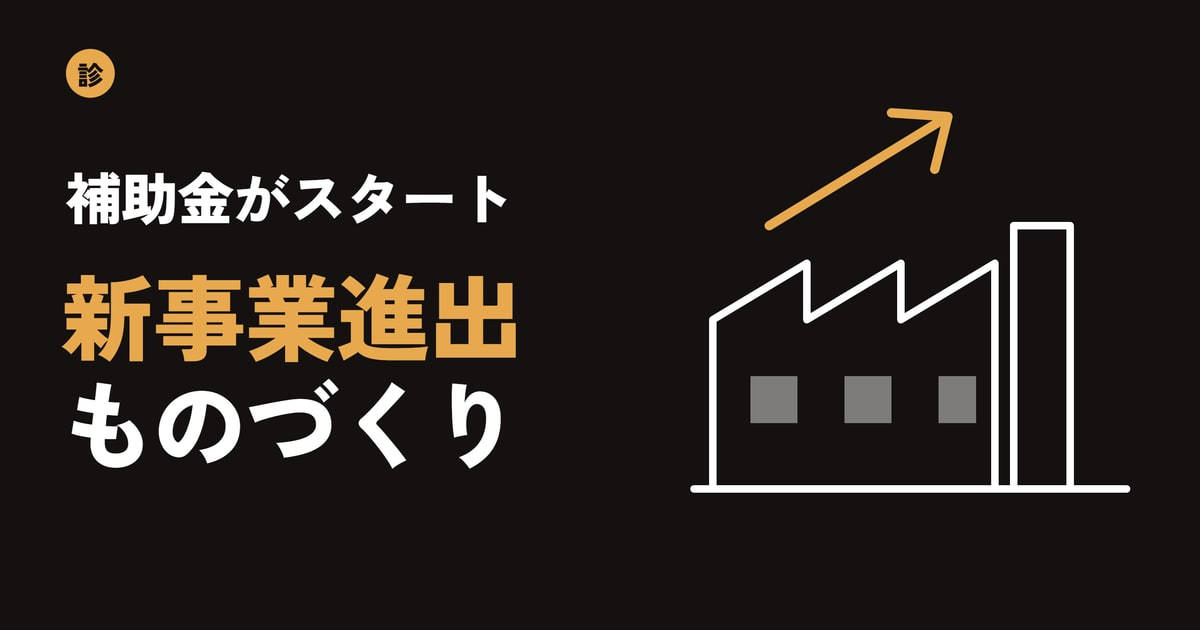
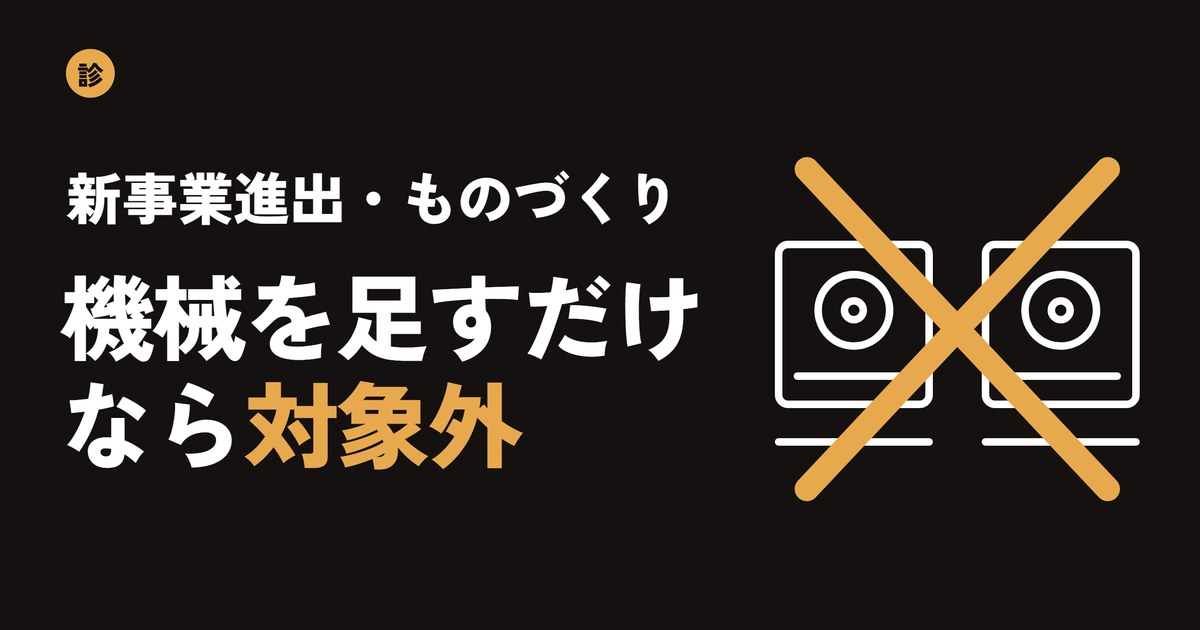
新事業進出・ものづくり補助金の記事を「製造業で対象になる計画、ならない計画」に書き直す
公募開始時の告知のまま（タイトル「がスタート」）で、仕事に直結する検索で171回表示されながら14位・0クリックだった。制度の全体像と山口県の賃金要件は monodukuri-hojokin-yamaguchi にあるので重ねず、業種名を足した検索に答える切り口にした。

- 公募要領1.3版の「新事業進出枠に該当しない例」7つを製造業の場面に置き換えた表
- 機械の導入だけでは対象外、ただし機械装置費か建物費は必須という両面
- 工程改善なら省力化投資補助金、第2回を待つなら事業を先に始めない、過去3年2回以上は対象外
- 第1回の締切と採択発表予定を時点つきで記載。URLは変えない
- アイキャッチを作り直し（JPEG 1200×630 と一覧用 WebP）

diff --git a/mt-shindan-site/src/content/blog/post-476.md b/mt-shindan-site/src/content/blog/post-476.md
@@ -1,96 +1,93 @@
 ---
-title: "新事業進出・ものづくり商業サービス補助金がスタート"
+title: "新事業進出・ものづくり補助金｜製造業で対象になる計画、ならない計画"
 slug: "shinjigyou-shinshutsu-monodukuri-subsidy"
 image: "/images/og/shinjigyou-shinshutsu-monodukuri-subsidy.jpg"
 date: "2026-06-30 12:00:00"
-updated: "2026-09-17"
+updated: "2026-10-28"
 categories: ["補助金"]
-description: "これまで多くの事業者様からご相談をいただいていた「新事業進出補助金」と「ものづくり補助金」。この２つが統合され、新たに「新事業進出・ものづくり商業サービス補助金」として第１回の公募が始まりました。"
-ctaLead: "第1回の締切は10月30日18時です。公募開始時の9月30日から変わっています。自社がどの枠で申請できるのか、その判断だけでもご相談ください。"
+description: "新事業進出・ものづくり商業サービス補助金は、機械を増やして生産量を上げるだけの計画は対象外です。公募要領が挙げる「該当しない例」7つを製造業の場面に置き換え、3つの枠の分かれ方、工程改善なら別の補助金、第2回を待つときの注意点まで整理します。"
+ctaLead: "その計画がどの枠に当たるのか、それとも別の補助金のほうが合うのか。公募要領と照らし合わせるところから一緒に確認できます。"
+related: ["monodukuri-hojokin-yamaguchi", "monodukuri-hojokin-consultant-fee", "digital-ai-hojokin-2026"]
 ---
 
-こんにちは、中小企業診断士の前です。
+新しい機械を入れて、生産を増やしたい。ものづくり補助金と聞いて多くの方が思い浮かべるのは、こういう使い方だと思います。
 
+ところが、後継の「新事業進出・ものづくり商業サービス補助金」では、この計画はどの枠にも当てはまりません。この補助金で問われるのは、何を買うかではなく、<strong>何を作って、誰に売るか</strong>です。
 
+第1回の応募は2026年10月30日（金）18時が締切で、採択発表は2027年1月頃の予定です。第2回の日程は、2026年10月28日時点で発表されていません。
 
-これまで多くの事業者様からご相談をいただいていた「新事業進出補助金」と「ものづくり補助金」。この２つが統合され、新たに「新事業進出・ものづくり商業サービス補助金」として第１回の公募が始まりました。
+公式サイト：[新事業進出・ものづくり商業サービス補助金](https://shinjigyou-monodukuri.smrj.go.jp/)
 
+## 3つの枠は「何を作って、誰に売るか」で分かれる
 
+| 枠 | 作るもの | 売る相手 | 補助上限 | 補助率 |
+| --- | --- | --- | --- | --- |
+| 革新的新製品・サービス枠 | 自社の技術を使った新製品・新サービス | 問わない | 750万〜2,500万円 | 1/2（小規模事業者は2/3） |
+| 新事業進出枠 | 自社にとって新しい製品・サービス | 自社にとって新しい顧客層 | 2,500万〜7,000万円 | 1/2 |
+| グローバル枠 | 自社の製品・サービス | 自社にとって新しい国・地域 | 2,500万〜7,000万円 | 2/3 |
 
-公式サイト：https://shinjigyou-monodukuri.smrj.go.jp/
+補助上限は従業員数で変わり、賃上げ特例を使うと上乗せがあります。下限は革新的新製品・サービス枠が100万円、ほかの2つは750万円です。小規模な事業者にとって下限がどう効いてくるかは、[ものづくり補助金 山口｜名称が変わり、締切は10月30日](/blog/monodukuri-hojokin-yamaguchi/)で詳しく書きました。
 
+グローバル枠は、自社が自分から海外の販路を開く場合に限られます。取引先に頼まれて輸出する、という形は対象外です。
 
+## 機械を入れるだけでは、どの枠にも当たらない
 
-公募要領を一通り読み込みましたので、今日は「結局どんな補助金なの？」「自分の会社は使えるの？」というところを、できるだけかみ砕いてご紹介します。
+革新的新製品・サービス枠について、公募要領ははっきり書いています。既存の製品・サービスの生産プロセスを改善する事業は対象外。機械装置やシステムを導入するだけで、新製品・新サービスの開発を伴わないものも該当しない。
 
+さらに、同業の中小企業ですでに相当程度普及している製品の開発も該当しません。地域性の高いものは、同じ地域の同業他社が基準になります。県内の同業者がもう作っているものを自社でも作る、という計画は、この枠では通りにくいということです。
 
+新事業進出枠でも、「該当しない例」の最初に挙がっているのが、既存の製品の製造量を増やす場合です。
 
-### どんな補助金なの？
+ただし、機械が要らないわけではありません。むしろ逆で、革新的新製品・サービス枠では機械装置・システム構築費を、新事業進出枠とグローバル枠では機械装置・システム構築費か建物費のどちらかを、必ず経費に含める決まりです。一過性の支出が経費の大半を占める計画も対象になりません。
 
+機械は買っていい。ただし、新しい製品を作るための手段として位置づける必要があります。
 
+## 「該当しない例」を製造業に当てはめると
 
-ひとことで言うと、新しい製品・サービスの開発や、これまでとは違う市場への進出、海外への販路拡大を後押ししてくれる補助金です。
+公募要領は、新事業進出枠に該当しない例を7つ挙げています。製造業の場面に置き換えると、次のようになります。右の列は要領の文言をもとに当事務所が置き換えた例で、実際の判断は計画全体を見て審査されます。
 
+| 公募要領の「該当しない例」 | 製造業に置き換えた例 |
+| --- | --- |
+| 既存の製品の製造量を増やす | 受注が増えた部品を作るため、同じ加工機を増設する |
+| 過去に作っていた製品を、また作る | 以前にやめた鋳物製品の製造を再開する |
+| 製造方法を変えるだけ | 同じチラシを、オフセット印刷からデジタル印刷に切り替えて刷る |
+| 性能を数値で測れるのに、有意な差がない | 樹脂部品の強度をわずかに上げただけの改良品 |
+| 既存製品と市場が同じ（置き換わる・メニューを足すだけ） | いまの取引先に、材質を変えた後継の部品を納める |
+| 既存の市場の一部だけを狙う | いまの客層のうち、小ロットで買う顧客だけに向けて仕様を変える |
+| 製品は同じで、商圏が違うだけ | 山口県内で売ってきた製品を、広島や福岡の同業の取引先に売り込む |
 
+最後の行は、県外に販路を広げたい事業者ほど気をつけたいところです。売る場所が変わっても、製品と顧客の種類が同じなら、新しい市場とは扱われません。
 
-枠は３つに分かれています。
+## 対象に近づくのは、顧客の種類が変わるとき
 
+では、何が「新しい市場」なのか。公募要領の定義は、既存事業では対象にしていなかったニーズや属性を持つ顧客層です。属性の例として、法人か個人か、業種、行動特性が挙げられています。
 
+新しさは自社にとってのもので構いません。日本初や世界初である必要はない、と要領にも書かれています。
 
-革新的新製品・サービス枠は、自社の技術を活かした新しい製品・サービスの開発が対象です。既存の製品をちょっと改良するだけ、という内容では対象になりません。
+例えば、自動車部品向けに金属を削ってきた会社が、その加工技術でキャンプ用品を作り、個人のお客様に直接売る。製品も、売る相手（法人から個人へ）も、その会社にとって新しいものです。考え方としては新事業進出枠に沿っています。
 
+ただ、枠の考え方に沿っていることと、採択されることは別です。その市場がどのくらいの大きさで、どの経路で売り、いつ利益が出るのか。そこまで計画で示せるかどうかが審査で問われます。
 
+## 工程の改善が目的なら、別の補助金が合う
 
-新事業進出枠は、これまでの事業とは違う市場やお客様層に進出する取り組みが対象です。ここがよく誤解されるポイントなのですが、<strong>「世の中で初めて」という新しさは求められていません。自社にとって新しい取り組みであればOKです</strong>。
+いまの製品を速く、少ない人手で作るための設備なら、中小企業省力化投資補助金のほうが目的に合います。人手不足の解消を目的にした設備投資を支える制度で、カタログから設備を選ぶ「カタログ注文型」と、現場に合わせたオーダーメイドの設備を対象にする「一般型」があります。
 
+一般型の第8回は10月16日に締め切られ、第9回は11月上旬に公募が始まる予定です。最新の状況は[補助金申請支援](/subsidy-support/)のページで更新しています。
 
+## 第2回を待つなら、新しい事業を先に始めない
 
-グローバル枠は、海外への販路を自社主導で開拓するための、国内の製造体制強化などが対象です。取引先に頼まれて輸出する、という場合は対象になりませんので注意が必要です。
+公募要領には、新規性の起点についての決まりがあります。申請する公募回の公募開始日（公募要領の公開日）以降に初めて取り組む事業を、新規性があるものとみなす、というものです。
 
+つまり、第2回を待つあいだに新しい製品を売り始めてしまうと、その事業は新しくないと判断されるおそれがあります。第2回でも同じ扱いになるかは第2回の公募要領で確かめる必要がありますが、準備は進めても、販売は公募開始を待つほうが安全です。
 
+もう一つ、過去3年間に事業再構築補助金・新事業進出補助金・ものづくり補助金の交付決定を合わせて2回以上受けた事業者は、申請できません。不採択だった場合は、計画を見直して再申請できます。
 
-補助上限額は従業員数によって変わり、革新的新製品・サービス枠で750万円〜2,500万円、新事業進出枠・グローバル枠で2,500万円〜7,000万円というイメージです。賃上げにしっかり取り組む事業者様には、上限額が上乗せされる特例もあります。
+## 申請の前に、返還の条件まで読む
 
+この補助金には、達成できないと補助金を返すことになる要件がついています。
 
+従業員一人当たりの給与支給総額を年平均3.5%以上伸ばす目標と、事業場内でいちばん低い賃金を地域別最低賃金より30円以上高く保つ条件です。どちらも補助事業が終わったあと3〜5年にわたって確認されます。このほか、付加価値額を年平均4.0%以上伸ばす計画と、一般事業主行動計画の公表も要件です。
 
-### 申請する前に知っておきたいこと
+山口県で申請する場合の具体的な金額と、口頭審査の進み方は[ものづくり補助金 山口](/blog/monodukuri-hojokin-yamaguchi/)に、専門家に頼む場合の料金の相場と、申請代行が禁止されている点は[ものづくり補助金のコンサル料金と相場](/blog/monodukuri-hojokin-consultant-fee/)にまとめています。
 
-
-
-ここが今回の補助金で特に大事なポイントだと感じています。
-
-
-
-申請には、付加価値額を年4.0%以上伸ばす計画や、社員一人当たりの給与総額を年3.5%以上増やす目標を、自社で設定して申請する必要があります。しかも**この賃上げ目標、達成できなかった場合は補助金の返還を求められることがあるんです**。「とりあえず補助金が欲しいから高めの目標を書く」というのは、後々のリスクになりかねません。無理のない、でもしっかり成長を描ける目標設定がカギになります。
-
-
-
-また、申請には「GビズIDプライムアカウント」の取得や、「一般事業主行動計画」の公表が必要で、それぞれ準備に1〜2週間ほどかかります。直前になって慌てないよう、早めの準備をおすすめします。
-
-
-
-（2026年9月16日追記）この記事を書いた時点では公募締切は令和8年9月30日18時でしたが、7月17日の公募要領の改訂で令和8年10月30日18時に変更されました。9月30日は電子申請の受付が始まる日です。最新の内容は[ものづくり補助金 山口｜名称が変わり、締切は10月30日](/blog/monodukuri-hojokin-yamaguchi/)にまとめ直しました。
-
-
-
-**事業計画書は専門家に手伝ってもらいながらでも、必ず申請者様ご自身で作成する必要があります**。私たち支援者は、あくまで一緒に整理するお手伝いができる立場です。
-
-
-
-### こんな会社にぜひ知ってほしい補助金です
-
-
-
-新しい商品やサービスを考えている方、これまでとは違うお客様層を開拓したい方、海外に販路を広げたい方。心当たりのある事業者様は、ぜひ一度内容を確認してみてください。
-
-
-
-ただ、要件がかなり細かく、特に「新規性・新市場性」の考え方や賃上げ要件の返還ルールは、しっかり理解しておかないと後で思わぬ落とし穴になることもあります。「うちの会社でも使えるかな？」「この事業計画で大丈夫かな？」と思われた方は、ひとりで悩まず気軽にご相談ください。
-
-
-
-初回相談は無料です。お気軽にご相談ください。
-
-
-
-Tel：080-6307-4502 Email：takaki5968@gmail.com
+「機械を入れたい」から考え始めること自体は、悪いことではありません。その機械で何を作り、それを誰に売るのか。そこまで言葉にできれば、この補助金が使えるのか、別の制度を探すべきなのかは、ほぼ見えてきます。
